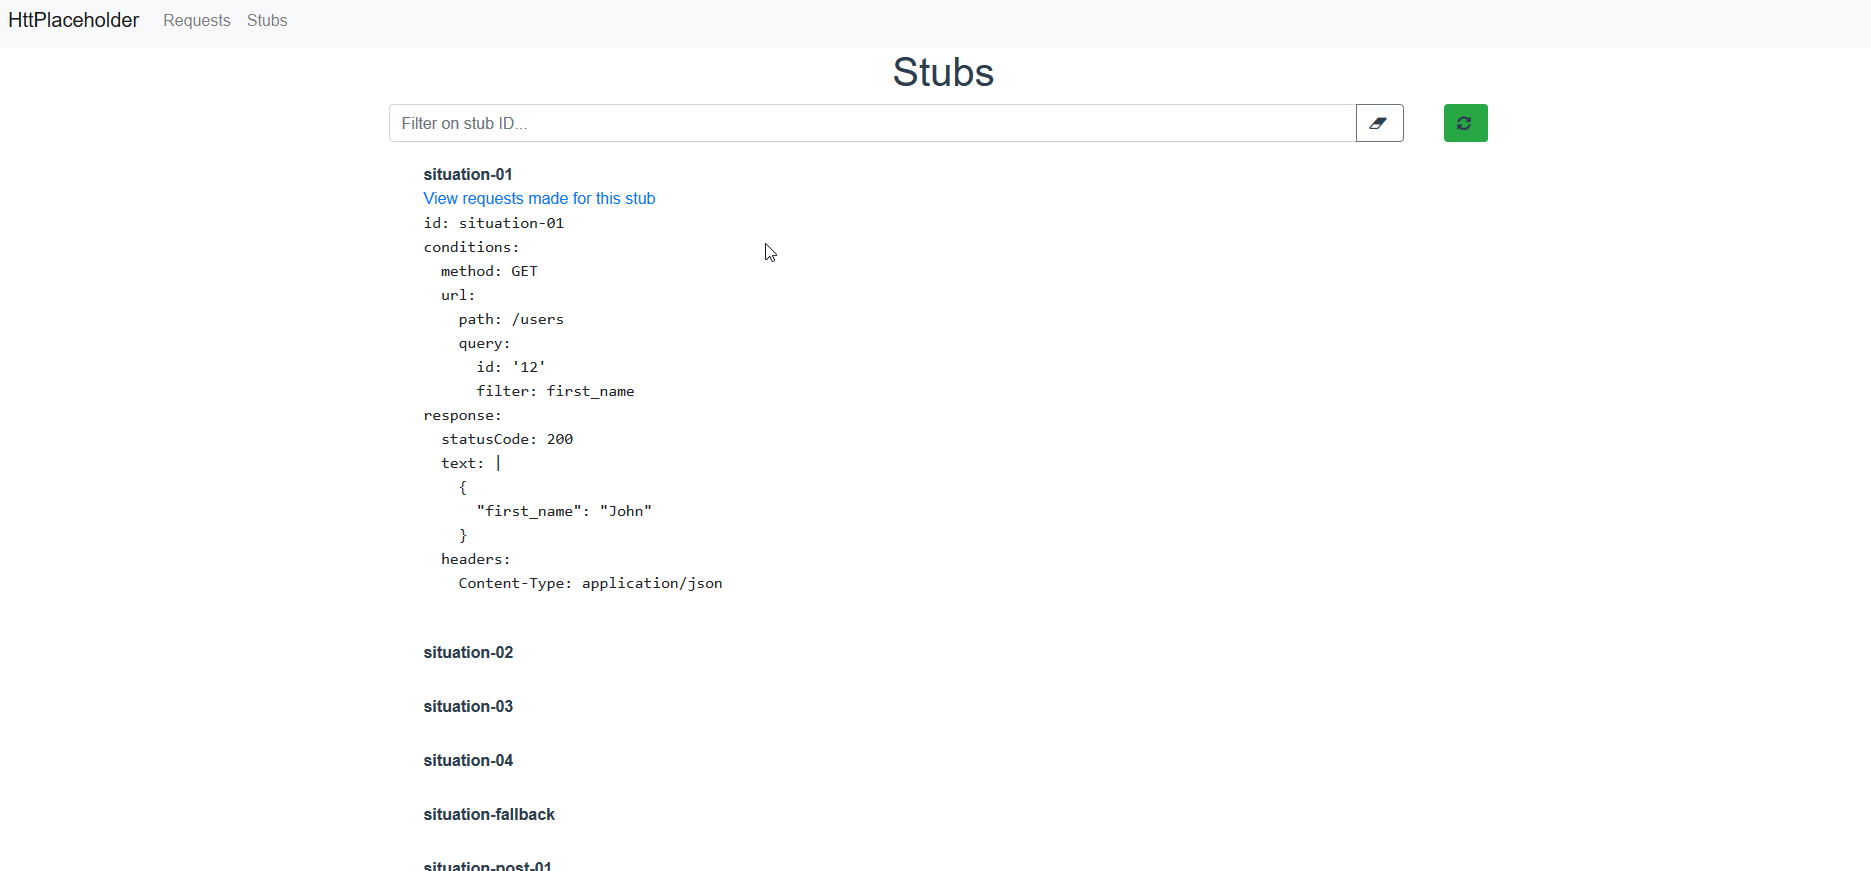
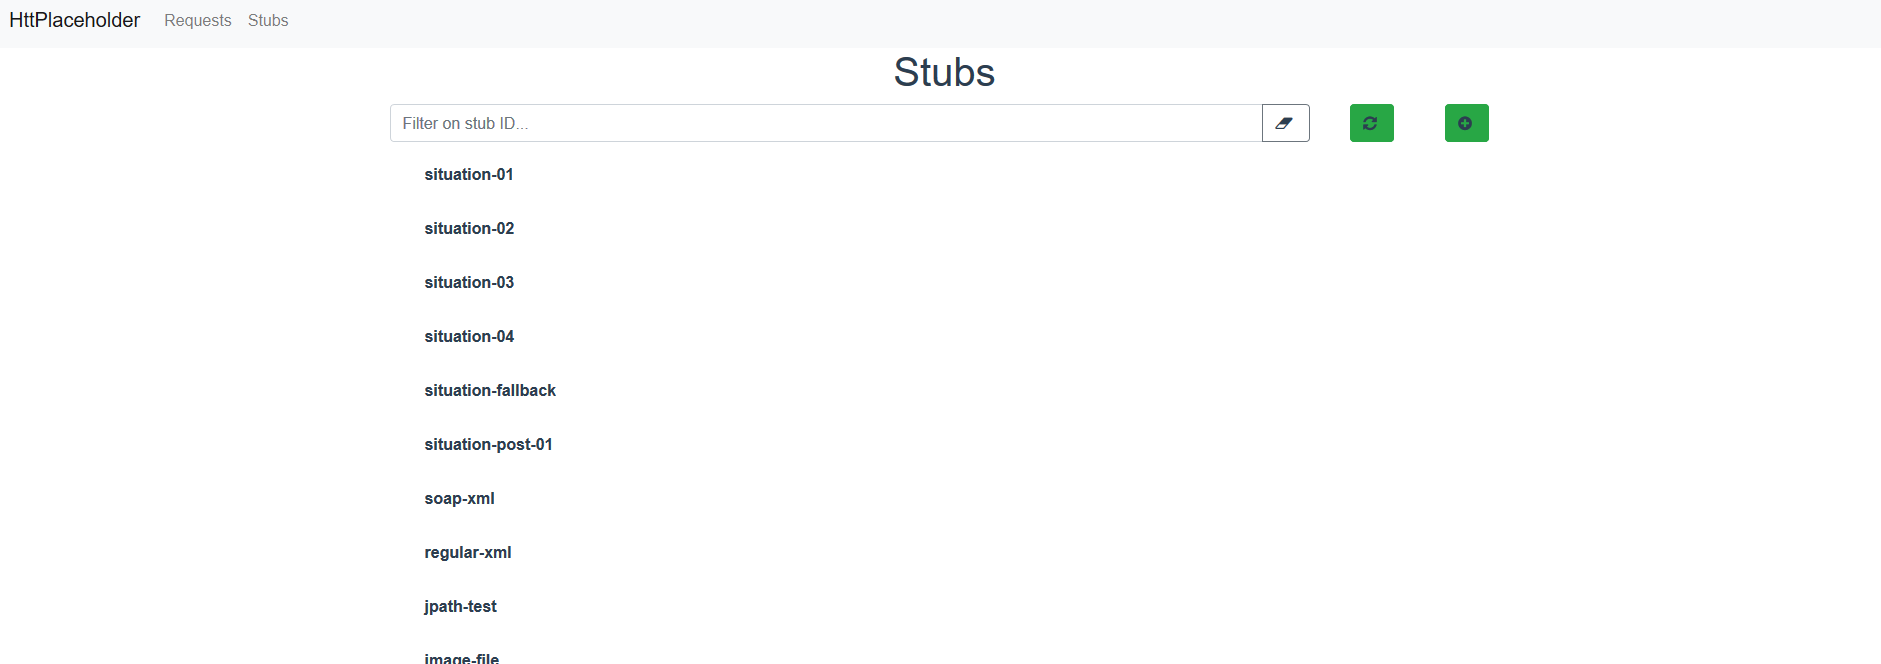
Added page in GUI for adding stubs

diff --git a/gui/src/views/AddStub.vue b/gui/src/views/AddStub.vue
@@ -1,0 +1,77 @@
+<template>
+  <div class="add-stub">
+    <h1>Add stub(s)</h1>
+
+    <p>
+      You can add new stubs here. Fill in the stub below in YAML format and click on "Add stub(s)".
+    </p>
+    
+    <div class="input-group">
+      <textarea class="form-control" v-model="stub"></textarea>
+    </div>
+
+    <div class="input-group">
+      <a class="btn btn-success" v-on:click="addStubs">Add stub(s)</a>
+    </div>
+
+  </div>
+</template>
+
+<script>
+import { shouldAuthenticate, logicAddStub } from "@/data/dataLogic";
+import Stub from "@/components/Stub";
+import resources from "@/resources";
+import toastr from "toastr";
+import yaml from "js-yaml";
+
+export default {
+  name: "addStub",
+  data() {
+    return {
+      stub: ""
+    };
+  },
+  components: {
+    Stub
+  },
+  created() {
+    shouldAuthenticate(result => {
+      if (result) {
+        this.$router.push({ name: "login" });
+      }
+    });
+  },
+  methods: {
+    addStubs() {
+      let stubsArray;
+      let parsedObject = yaml.safeLoad(this.stub);
+      if(!Array.isArray(parsedObject)) {
+        stubsArray = [
+          parsedObject
+        ];
+      } else {
+        stubsArray = parsedObject;
+      }
+      
+      for (let index in stubsArray) {
+        let stub = stubsArray[index];
+        logicAddStub(stub)
+          .then(response => {
+            toastr.success(resources.stubAddedSuccessfully.format(stub.id));
+          })
+          .catch(error => {
+            toastr.error(resources.stubNotAdded.format(stub.id));
+          });
+      }
+    }
+  },
+  watch: {}
+};
+</script>
+
+<style scoped>
+.input-group textarea {
+  height: 200px;
+  margin-bottom: 10px;
+}
+</style>

diff --git a/gui/src/data/dataLogic.js b/gui/src/data/dataLogic.js
@@ -1,4 +1,4 @@
-import { getUser, getRequests, deleteAllRequests, getStubs } from "./serviceAgent"
+import { getUser, getRequests, deleteAllRequests, getStubs, addStub } from "./serviceAgent"
 import { getItem, setItem } from "./session"
 
 const shouldAuthenticate = callback => {
@@ -28,19 +28,25 @@ const authenticate = (username, password, successCallback, errorCallback) => {
 const logicGetRequests = () => {
     let username = getItem("username");
     let password = getItem("password");
-    return getRequests(username, password)
+    return getRequests(username, password);
 }
 
 const logicDeleteAllRequests = () => {
     let username = getItem("username");
     let password = getItem("password");
-    return deleteAllRequests(username, password)
+    return deleteAllRequests(username, password);
 }
 
 const logicGetStubs = () => {
     let username = getItem("username");
     let password = getItem("password");
-    return getStubs(username, password)
+    return getStubs(username, password);
+}
+
+const logicAddStub = stub => {
+    let username = getItem("username");
+    let password = getItem("password");
+    return addStub(stub, username, password);
 }
 
 export {
@@ -48,5 +54,6 @@ export {
     logicGetRequests,
     logicDeleteAllRequests,
     logicGetStubs,
-    authenticate
+    authenticate,
+    logicAddStub
 }

diff --git a/gui/src/views/Stubs.vue b/gui/src/views/Stubs.vue
@@ -2,7 +2,7 @@
   <div class="stubs">
     <h1>Stubs</h1>
     <div class="row">
-      <div class="col-md-11">
+      <div class="col-md-10">
         <div class="input-group">
           <input type="text" class="form-control" placeholder="Filter on stub ID..." v-model="searchTerm" />
           <span class="input-group-append">
@@ -12,6 +12,9 @@
       </div>
       <div class="col-md-1">
         <a class="btn btn-success" v-on:click="getStubs" title="Refresh"><span class="fa fa-refresh">&nbsp;</span></a>
+      </div>
+      <div class="col-md-1">
+        <a class="btn btn-success" v-on:click="addStub" title="Add new stub(s)"><span class="fa fa-plus-circle">&nbsp;</span></a>
       </div>
     </div>
     <Stub v-bind:stub="stub" v-for="stub in filteredStubs" :key="stub.id"></Stub>
@@ -72,6 +75,9 @@ export default {
       .catch(error => {
         toastr.error(resources.somethingWentWrongServer);
       });
+    },
+    addStub() {
+      this.$router.push({ name: "addStub" });
     },
     clearInput() {
       this.searchTerm = "";

diff --git a/gui/src/data/serviceAgent.js b/gui/src/data/serviceAgent.js
@@ -29,6 +29,14 @@ const getUser = (username, password) => {
     return axios.get(url, config)
 }
 
+const addStub = (stub, username, password) => {
+    let rootUrl = urls.rootUrl
+    let url = `${rootUrl}ph-api/stubs`
+    let config = getConfig(username, password)
+    config.headers["Content-Type"] = 'application/json'
+    return axios.post(url, stub, config)
+}
+
 const getConfig = (username, password) => {
     let basicAuthString = btoa(`${username}:${password}`)
     return {
@@ -42,5 +50,6 @@ export {
     getRequests,
     getStubs,
     deleteAllRequests,
-    getUser
+    getUser,
+    addStub
 }

diff --git a/gui/src/resources.js b/gui/src/resources.js
@@ -1,7 +1,9 @@
 const resources = {
     somethingWentWrongServer: "Something went wrong while contacting the server.",
     credentialsIncorrect: "The credentials are incorrect.",
-    requestsDeletedSuccessfully: "The requests were deleted successfully."
+    requestsDeletedSuccessfully: "The requests were deleted successfully.",
+    stubAddedSuccessfully: "Stub with ID '{0}' was added successfully.",
+    stubNotAdded: "Stub with ID '{0}' could not be added."
 };
 
 export default resources

diff --git a/gui/src/functions/stringFormat.js b/gui/src/functions/stringFormat.js
@@ -1,0 +1,12 @@
+// Source: https://stackoverflow.com/questions/610406/javascript-equivalent-to-printf-string-format
+if (!String.prototype.format) {
+    String.prototype.format = function () {
+        var args = arguments;
+        return this.replace(/{(\d+)}/g, function (match, number) {
+            return typeof args[number] != 'undefined'
+                ? args[number]
+                : match
+                ;
+        });
+    };
+}

diff --git a/gui/src/router.js b/gui/src/router.js
@@ -24,6 +24,11 @@ export default new Router({
       path: '/login',
       name: 'login',
       component: () => import(/* webpackChunkName: "login" */ './views/Login.vue')
+    },
+    {
+      path: '/addStub',
+      name: 'addStub',
+      component: () => import(/* webpackChunkName: "login" */ './views/AddStub.vue')
     }
   ]
 })

diff --git a/gui/src/main.js b/gui/src/main.js
@@ -11,6 +11,8 @@ import 'toastr/build/toastr.css'
 import './filters/yaml'
 import './filters/datetime'
 
+import './functions/stringFormat'
+
 Vue.config.productionTip = false
 
 new Vue({

diff --git a/docs/UI.md b/docs/UI.md
@@ -28,3 +28,9 @@ The top bar has some options:
 
 - You can fill in the stub ID to filter the stubs. The eraser empties the search bar.
 - The green button refreshes the requests.
+
+## Add stub(s)
+
+When you're on the Stubs page and you click on the "+" icon, you will go to the Add Stub(s) page. On this page, you can fill in a piece of YAML which represents the stub (see the [samples](SAMPLES.md)).
+
+![](img/stubs_add.png)
